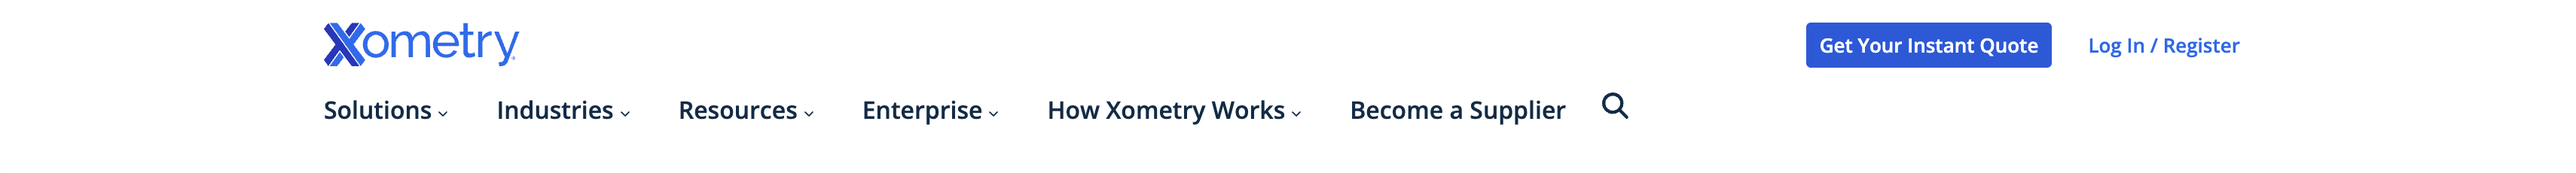
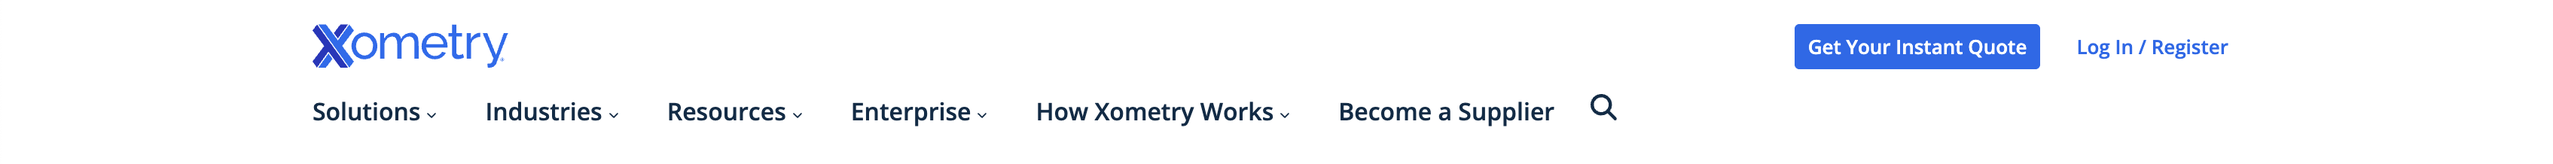
fix: header and body are now responsive

diff --git a/src/pages/EducationPage/EducationPage.tsx b/src/pages/EducationPage/EducationPage.tsx
@@ -5,6 +5,24 @@ export default function EducationPage() {
     <div>
       <h1 className={styles.header}>Education Page</h1>
       <p>This is the Education page content.</p>
+      <h1 className={styles.header}>Education Page</h1>
+      <p>This is the Education page content.</p>
+      <h1 className={styles.header}>Education Page</h1>
+      <p>This is the Education page content.</p>
+      <h1 className={styles.header}>Education Page</h1>
+      <p>This is the Education page content.</p>
+      <h1 className={styles.header}>Education Page</h1>
+      <p>This is the Education page content.</p>
+      <h1 className={styles.header}>Education Page</h1>
+      <p>This is the Education page content.</p>
+      <h1 className={styles.header}>Education Page</h1>
+      <p>This is the Education page content.</p>
+      <h1 className={styles.header}>Education Page</h1>
+      <p>This is the Education page content.</p>
+      <h1 className={styles.header}>Education Page</h1>
+      <p>This is the Education page content.</p>
+      <h1 className={styles.header}>Education Page</h1>
+      <p>This is the Education page content.</p>
     </div>
   );
 }

diff --git a/src/Layout/Layout.tsx b/src/Layout/Layout.tsx
@@ -10,7 +10,9 @@ export default function Layout({ children }: LayoutProps) {
   return (
     <>
       <Header />
-      <main className={styles.main}>{children}</main>
+      <main className={styles.main}>
+        <div className={styles.marginDiv}>{children} </div>
+      </main>
     </>
   );
 }

diff --git a/src/Layout/Header/Header.tsx b/src/Layout/Header/Header.tsx
@@ -3,7 +3,7 @@ import header from "../../assets/header.png";
 
 export default function Header() {
   return (
-    <header>
+    <header className={styles.header}>
       <img src={header} className={styles.headerImg}></img>
     </header>
   );

diff --git a/src/index.css b/src/index.css
@@ -1,7 +1,7 @@
 @import url("https://fonts.googleapis.com/css2?family=Open+Sans&display=swap");
 
 body {
-  background-color: #ffffff;
+  background-color: #e6f0fc;
   margin: 0px;
   padding: 0px;
   box-sizing: border-box;

diff --git a/src/Layout/Header/Header.module.css b/src/Layout/Header/Header.module.css
@@ -1,3 +1,12 @@
 .headerImg {
-  width: 100%;
+  height: 100%;
+}
+.header {
+  background-color: white;
+  height: 109px;
+  overflow: hidden;
+  display: flex;
+  justify-content: center;
+  top: 0;
+  position: sticky;
 }

diff --git a/src/Layout/Layout.module.css b/src/Layout/Layout.module.css
@@ -1,3 +1,8 @@
 main {
-  margin: 0px 210px;
+  display: flex;
+  justify-content: center;
+}
+
+.marginDiv {
+  width: 1280px;
 }
